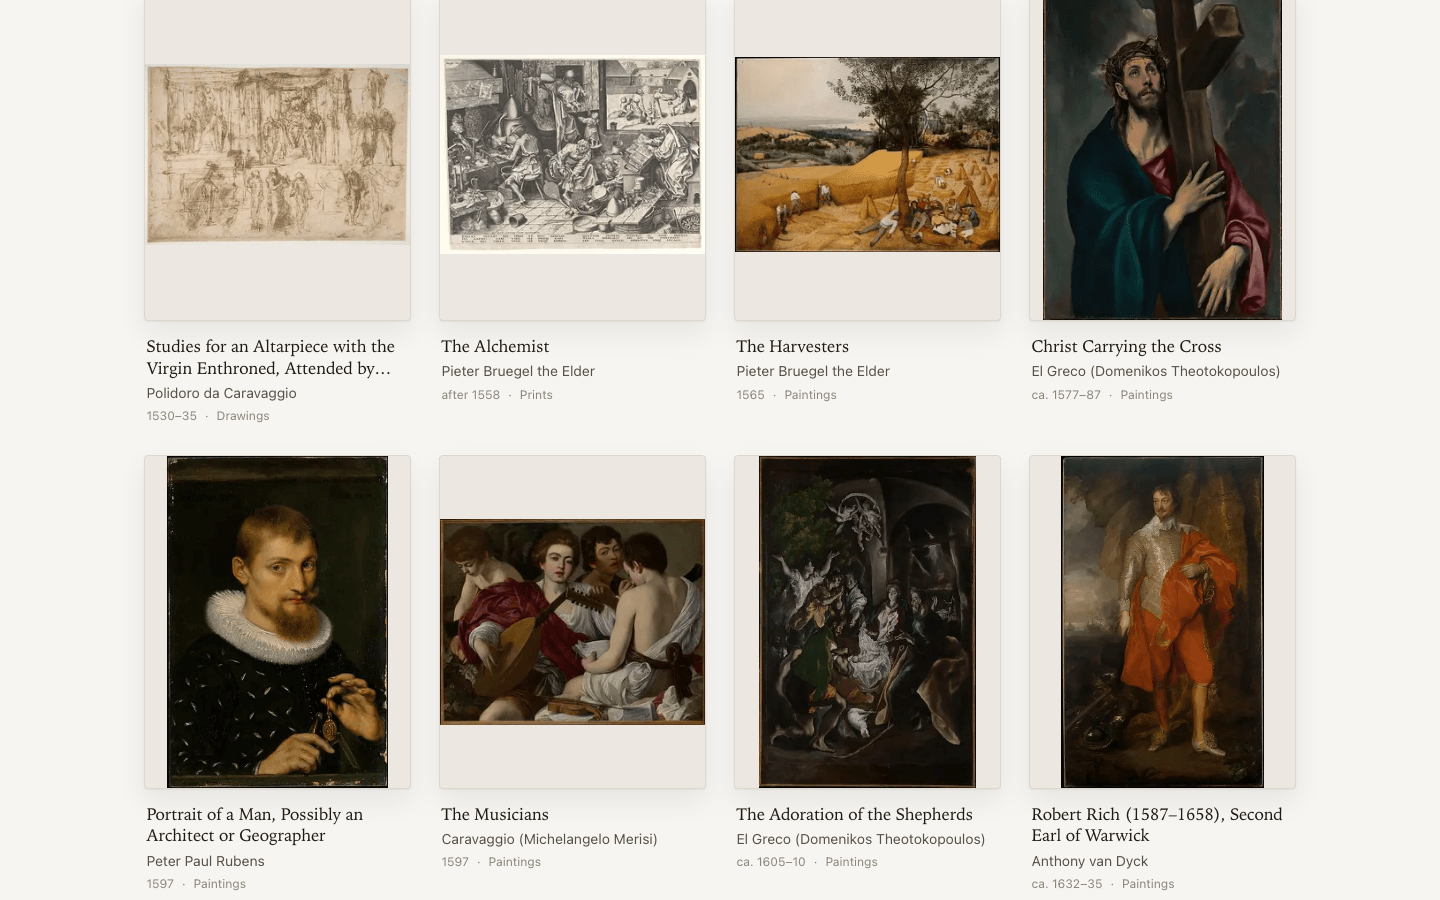
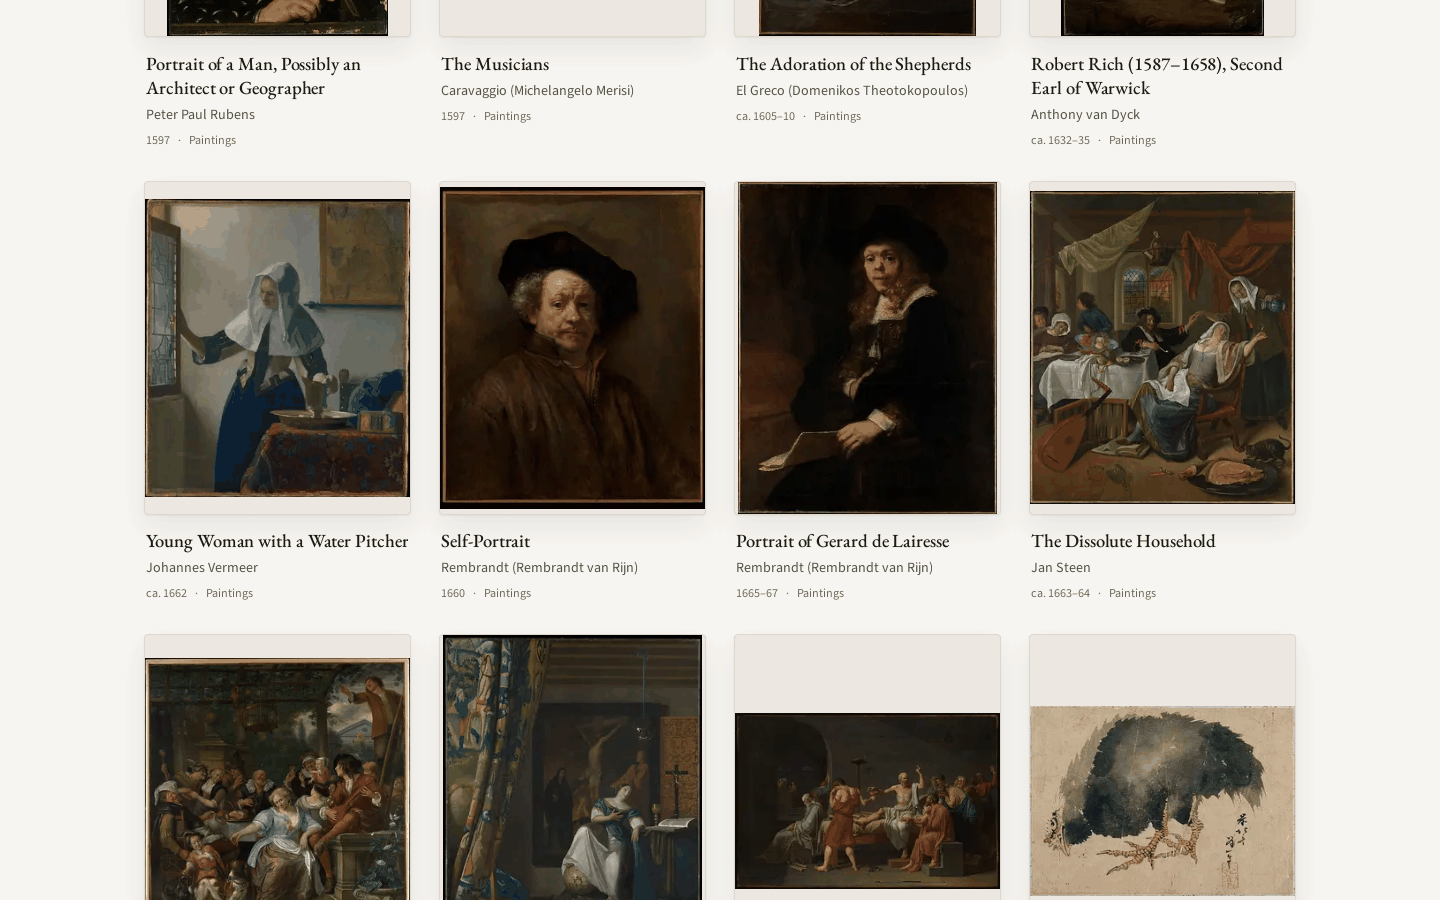
Rewrite README for Next 16, new screenshots and an MIT licence
Version and test counts brought up to date, a captured /api/artworks
example, desktop and 390px screenshots of the restyled UI, the image
optimiser numbers re-measured, and the three newly fixed bugs written up.
LICENSE added (MIT, the project authors).

diff --git a/README.md b/README.md
@@ -7,9 +7,9 @@ change one environment variable.
 
 ![The gallery home view: a search box, department facet chips with counts, and the first row of framed works](docs/screenshots/gallery.png)
 
-Next.js 12 (Pages Router), React 17, TypeScript. No database, no ORM, no state-management
-library, no component framework — a read-only catalogue of this size does not need them.
-112 tests, 99% statement coverage.
+Next.js 16 (Pages Router), React 19, TypeScript, Node 22. No database, no ORM, no
+state-management library, no component framework — a read-only catalogue of this size does
+not need them. 118 tests, 99% statement coverage.
 
 ## What happens to what you type
 
@@ -109,12 +109,42 @@ $ curl -s http://localhost:8120/api/health
 {"status":"ok","source":"local","artworks":46,"aiSearch":"disabled"}
 ```
 
-Tear it down with `docker compose down -v`. Without Docker:
+Tear it down with `docker compose down -v`. Without Docker you need Node 22 (`.nvmrc`):
 
 ```bash
-npm install
-npm run dev     # http://localhost:3000
+npm ci
+npm run dev                    # http://localhost:3000
+# or the production server:
+npm run build && npm start     # http://localhost:3000
 ```
+
+A search against the bundled catalogue, trimmed to one result:
+
+```console
+$ curl -s 'http://localhost:8120/api/artworks?search=hokusai%20before%201840&limit=1'
+{
+  "data": [
+    {
+      "id": "met-48886",
+      "title": "Album of Sketches by Katsushika Hokusai and His Disciples",
+      "artist": "Katsushika Hokusai",
+      "year": 1800,
+      "yearDisplay": "19th century",
+      "department": "Asian Art",
+      "imageUrl": "https://images.metmuseum.org/CRDImages/as/web-large/DT5298.jpg",
+      ...
+    }
+  ],
+  "total": 2, "returned": 1, "offset": 0, "limit": 1, "nextOffset": 1,
+  "facets": { "departments": [{ "value": "European Paintings", "count": 28 }, ...] },
+  "query": { "terms": ["hokusai"], "yearFrom": null, "yearTo": 1839, ... },
+  "interpretedBy": "heuristic",
+  "source": "local",
+  "attribution": "The Metropolitan Museum of Art Open Access (CC0)"
+}
+```
+
+`before 1840` became `yearTo: 1839` and left `hokusai` as the only free-text term.
 
 Every environment variable is optional; with none set the app runs against the bundled
 catalogue and the parser handles every query.
@@ -139,18 +169,27 @@ is the wrong default for a gallery; the fixed frame ratio also means zero layout
 images stream in. Cards are buttons, the dialog takes focus on open, traps Tab in both
 directions, closes on Escape or backdrop, and returns focus to the card that opened it.
 Loading, empty and failure states are all distinct, including a per-image failure that
-degrades to a caption instead of a broken icon. Light and dark palettes are both defined and
-`prefers-reduced-motion` is honoured.
+degrades to a caption instead of a broken icon. Light and dark palettes are both defined,
+faint label text holds 4.5:1 contrast in each, and `prefers-reduced-motion` is honoured.
+Titles are set in EB Garamond, the interface in Source Sans 3, with the system serif and sans
+stacks behind them when Google Fonts cannot be reached.
 
-![Two scrolled rows of the grid: Bruegel, El Greco, Rubens, Caravaggio, van Dyck, each framed on its own mat](docs/screenshots/grid.png)
+![Two scrolled rows of the grid: Rubens, Caravaggio, El Greco, van Dyck, Vermeer, Rembrandt and Jan Steen, each framed on its own mat](docs/screenshots/grid.png)
+
+On a phone the grid drops to two columns and the dialog becomes a single scrolling column;
+the page behind it is scroll-locked while it is open.
+
+<p>
+  <img src="docs/screenshots/gallery-mobile.png" width="260" alt="The gallery at 390px wide: header, search box, wrapped department chips and a two-column grid" />
+  <img src="docs/screenshots/artwork-detail-mobile.png" width="260" alt="The detail dialog at 390px wide: image on top, then the title and the label rows" />
+</p>
 
 Images come through Next's pipeline with tuned `deviceSizes`/`imageSizes`, eager for the
-first four cards and lazy below. A representative work drops from a **57 KB upstream JPEG to
-a 12 KB WebP** at the 300 px the grid actually renders. `sharp` is an optional dependency for
-exactly this: with it the optimiser transcodes in ~1.4 s and emits WebP; without it Next 12
-falls back to a bundled WASM encoder that took ~8.8 s and emitted a 122 KB JPEG.
+first four cards and lazy below. A representative work drops from a **98 KB upstream JPEG to
+a 15 KB WebP** at the 320 px width the grid requests. Next 16 installs `sharp` itself, so the
+production image transcodes natively.
 
-## Two things that were broken here first
+## What was broken here first
 
 The production build did not work at all. `tsconfig.json` set no `types`, so TypeScript
 pulled in every package under `node_modules/@types`, including `@types/babel__traverse` —
@@ -163,14 +202,27 @@ lower-cased haystack against the caller's raw input, so `'Mona'` returned `[]` w
 `'mona'` returned one work. It only appeared to work because the single call site happened
 to pre-normalise first. Normalisation now happens inside the query layer.
 
+Three more turned up later, none of which the tests could see:
+
+- **Load more never loaded.** The hook started the request from an effect and then cleared
+  the state that triggered it, so React's cleanup aborted the fetch it had just made. The
+  grid sat on skeletons. The test stub ignored `AbortSignal`, which is why it passed; it now
+  rejects aborted requests the way `fetch` does.
+- **A department chip stuck to a cached AI interpretation.** The route wrote the chip's
+  department onto the query object the interpretation cache had handed back, so the same
+  phrase stayed filtered on the next request. The override now goes on a copy.
+- **The open dialog stole focus** every time the page re-rendered, because its effect
+  depended on an inline `onClose`. It is now an effect event.
+
 ## Tests
 
-`npm test` — 13 suites, 112 tests, no network calls anywhere. `npm run test:coverage`
-enforces the thresholds in `jest.config.js` (90/85/90/90) and currently reports 99.2%
-statements, 92.1% branches. The Anthropic client is injected, the Met adapter takes
+`npm test` — 14 suites, 118 tests, no network calls anywhere. `npm run test:coverage`
+enforces the thresholds in `jest.config.js` (90/85/90/90) and currently reports 99.0%
+statements, 92.4% branches. The Anthropic client is injected, the Met adapter takes
 a `fetchImpl`, and the page tests drive a stub of `/api/artworks` that honours search,
 department, limit and offset — so pagination and filtering are exercised end to end without
-a server. Also available: `npm run lint`, `npm run typecheck`, `npm run format`.
+a server. Also available: `npm run lint` (ESLint 9 flat config), `npm run typecheck`
+(`next typegen`, then `tsc`), `npm run format:check`.
 
 `npm run seed` regenerates `data/catalog.json` from the Met API, verifying public-domain
 status and image reachability per object. It is the only script that touches the network,
@@ -189,12 +241,16 @@ and nothing at runtime depends on it having been run.
   rate-limited upstream.
 - **Images are hot-linked** from `images.metmuseum.org`. With no outbound network the
   metadata still renders, but every frame shows its "Image unavailable" state.
-- Next 12 with the Pages Router is kept as-is; nothing here depends on the App Router.
+- **Pages Router only.** Nothing here needs the App Router, so it was not migrated.
 
 ## Attribution
 
 Metadata and images come from [The Metropolitan Museum of Art Collection
 API](https://metmuseum.github.io/). Open-access metadata is CC0, and only objects the Met
 marks as public domain are included. Screenshots were captured with Playwright at 1440x900
-against the container on `http://localhost:8120`, waiting for every image to finish loading
+and 390x844 against the Compose container, waiting for every visible image to finish loading
 so no frame is a skeleton.
+
+## Licence
+
+MIT — see [LICENSE](LICENSE). The artwork data is CC0 from the Met, as above.
